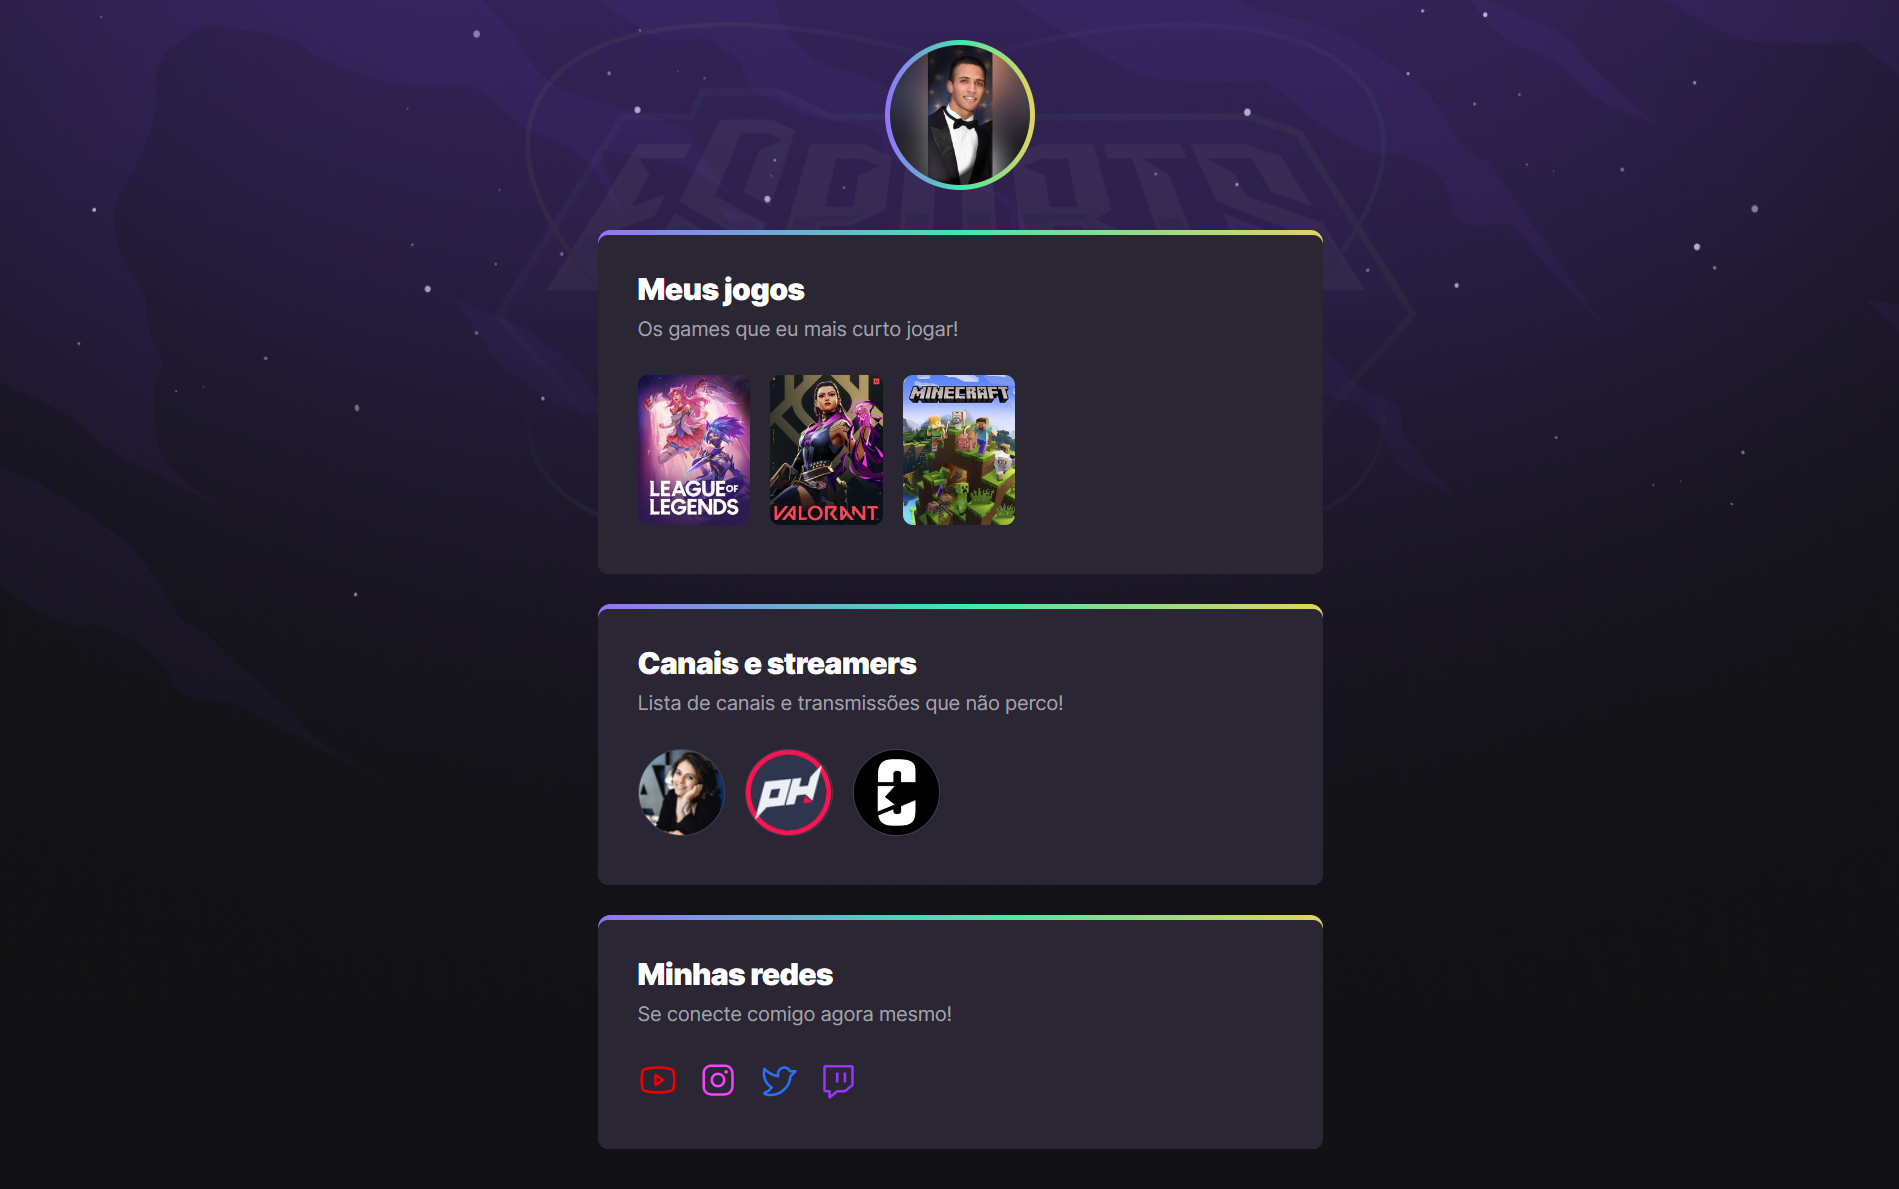
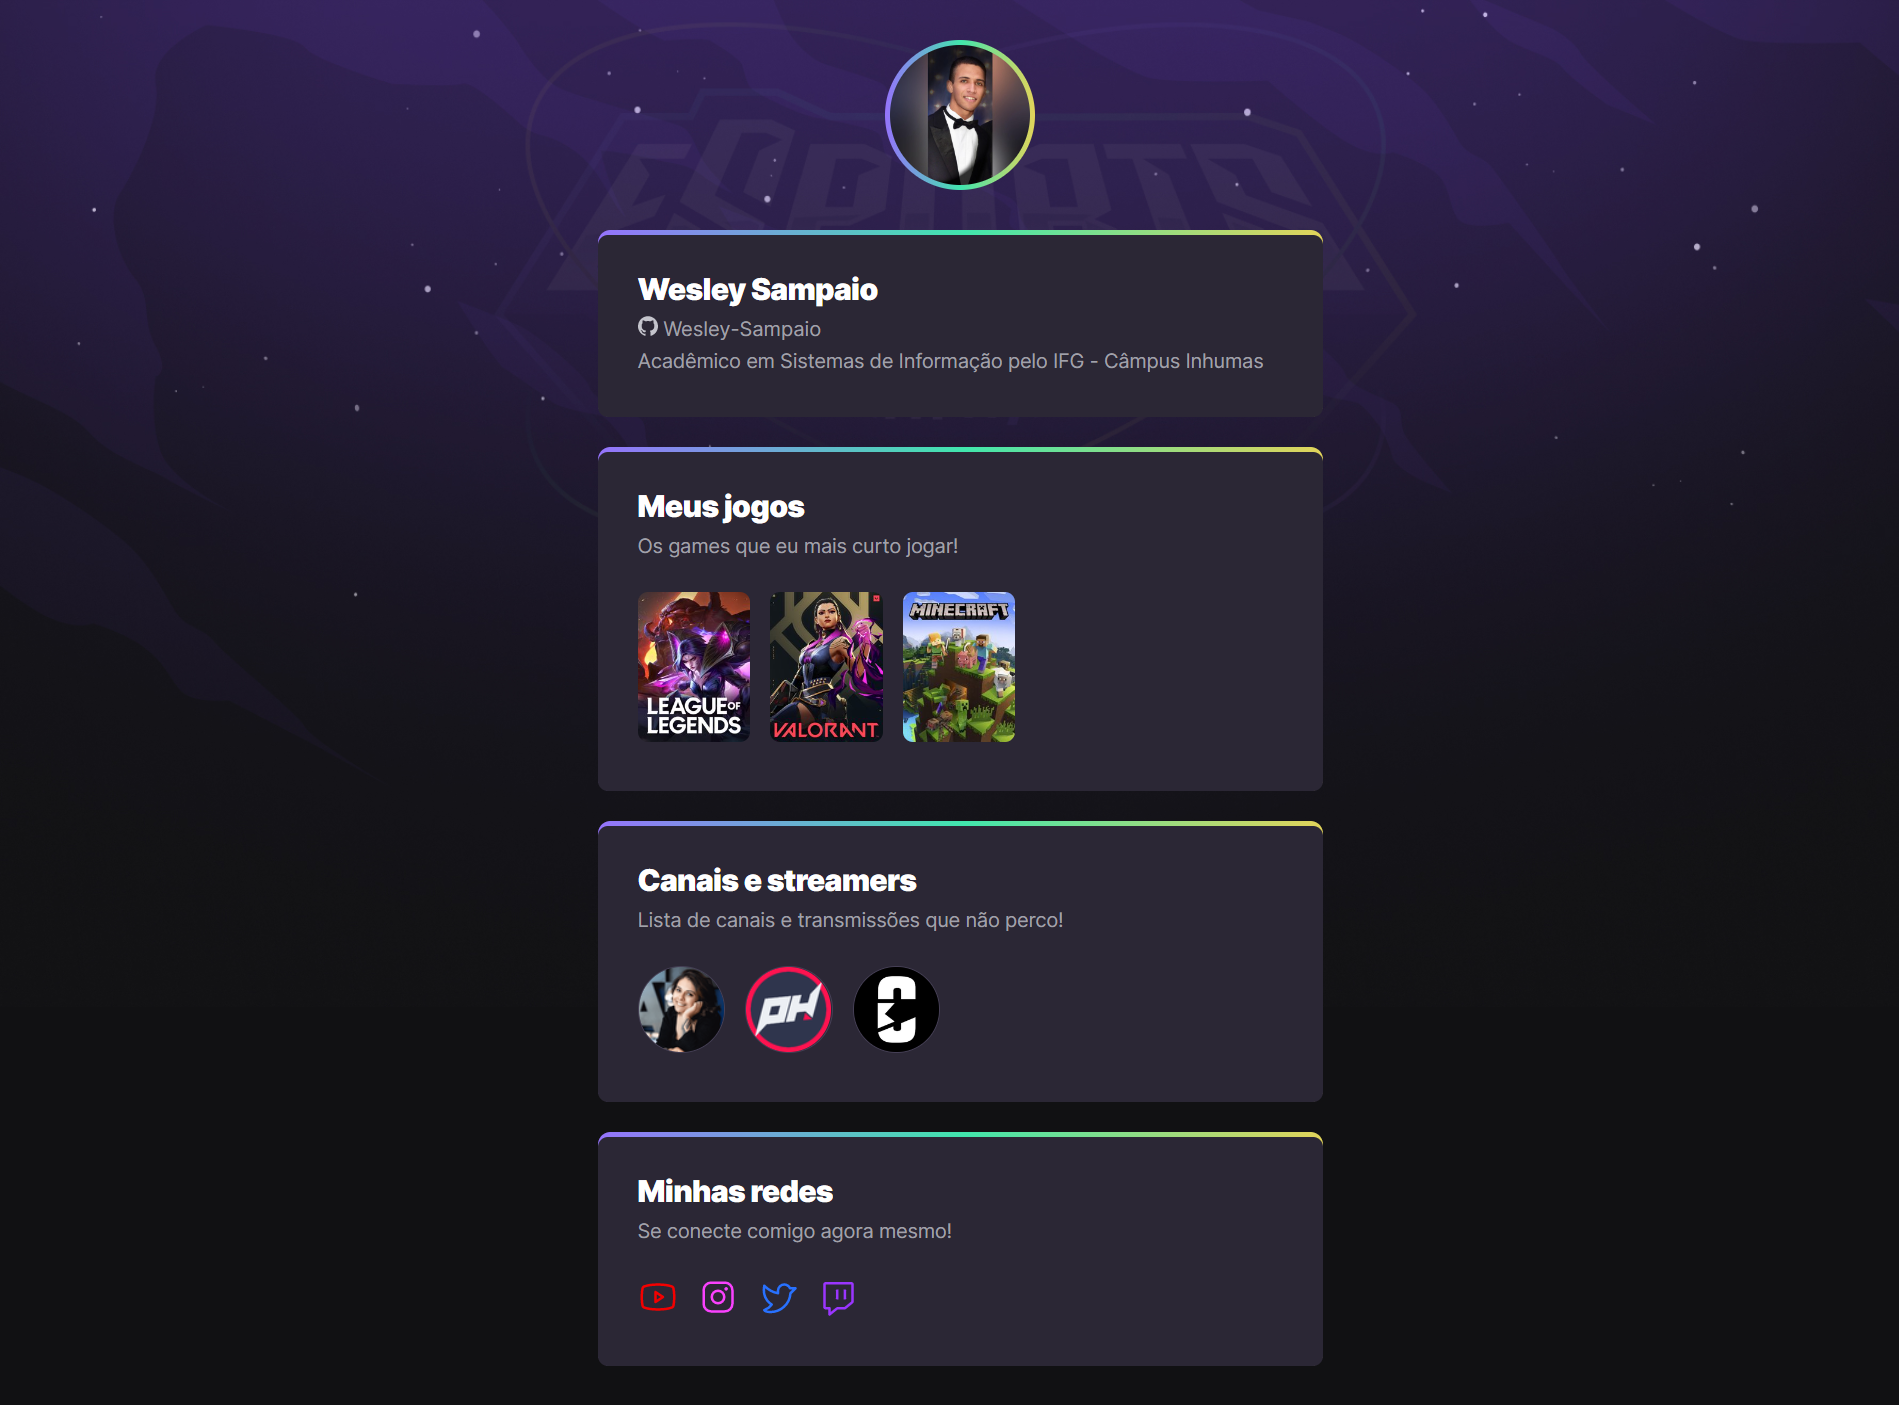
atualizando projeto

Changed region(s): [[0.3107, 0.3112, 0.7146, 0.9336], [0.3107, 0.0311, 0.7146, 0.2801], [0.3107, 0.9647, 0.6835, 0.9958]]

diff --git a/styles.css b/styles.css
@@ -4,6 +4,20 @@
   box-sizing: border-box;
 }
 
+:root {
+  --gradient: linear-gradient(
+    90deg,
+    hsla(255, 96%, 72%, 1) 0%,
+    hsla(159, 77%, 58%, 1) 50.52%,
+    hsla(54, 70%, 62%, 1) 100%
+  );
+  --text-h1: hsla(0, 0%, 100%, 1);
+  --text-p: hsl(240, 5%, 65%);
+  --color-card: hsla(257, 16%, 18%, 1);
+  --border-img: hsla(257, 15%, 29%, 1);
+  --bg-color: hsla(240, 5%, 7%, 1);
+}
+
 ul {
   list-style: none;
 }
@@ -13,7 +27,7 @@ body {
   background-position: top center;
   background-size: 100% auto;
   background-repeat: no-repeat;
-  background-color: #121214;
+  background-color: var(--bg-color);
 }
 
 body * {
@@ -29,12 +43,7 @@ header {
 header div {
   width: 120px;
   margin: auto;
-  background-image: linear-gradient(
-    90deg,
-    #9572fc 0%,
-    #43e7ad 50.52%,
-    #e2d45c 100%
-  );
+  background-image: var(--gradient);
 
   border-radius: 50%;
 
@@ -64,21 +73,21 @@ main {
 
 section {
   color: white;
-  background-image: linear-gradient(
-    90deg,
-    #9572fc 0%,
-    #43e7ad 50.52%,
-    #e2d45c 100%
-  );
+  background-image: var(--gradient);
   padding-top: 4px;
   border-radius: 10px;
 }
 
 section div {
-  background-color: #2a2634;
+  background-color: var(--color-card);
   padding: 32px;
   padding-top: 24px;
   border-radius: 8px;
+}
+
+section a {
+  color: var(--text-p);
+  text-decoration: none;
 }
 
 section h2 {
@@ -87,7 +96,7 @@ section h2 {
 
 section p {
   letter-spacing: -0.18px;
-  color: #a1a1aa;
+  color: var(--text-p);
 }
 
 section ul {
@@ -114,7 +123,7 @@ section ul li:hover {
 .channel-list img {
   border-radius: 50%;
   width: 70px;
-  border: 1px solid #443e54;
+  border: 1px solid var(--border-img);
 }
 
 /* animation */

diff --git a/index.html b/index.html
@@ -32,6 +32,19 @@
     </header>
 
     <main>
+      <section>
+        <div>
+          <h2 id="userName">Usuário</h2>
+
+          <a id="userProfile" href="https://github.com/" target="_blank">
+            <img src="assets/Icons/github.svg" alt="ícone github" />
+
+            <span id="userLogin">GitHub Profile</span></a
+          >
+          <p id="userBio">Bio</p>
+        </div>
+      </section>
+
       <!-- Meus jogos -->
       <section>
         <div>

diff --git a/main.js b/main.js
@@ -23,7 +23,10 @@ function getGitHubProfileInfo() {
   fetch(url)
     .then((response) => response.json())
     .then((data) => {
+      (userName.textContent = data.name), (userBio.textContent = data.bio);
       userImage.src = data.avatar_url;
+      userProfile.href = data.html_url;
+      userLogin.textContent = data.login;
     });
 }
 

diff --git a/README.md b/README.md
@@ -1,17 +1,11 @@
 <h1 align="center">
-  Crachá Virtual DoWhile
+  Game Hub
 </h1>
 
 <p align="center">
   <a href="#-tecnologias">Tecnologias</a>&nbsp;&nbsp;&nbsp;|&nbsp;&nbsp;&nbsp;
   <a href="#-projeto">Projeto</a>&nbsp;&nbsp;&nbsp;|&nbsp;&nbsp;&nbsp;
-  <a href="#-layout">Layout</a>&nbsp;&nbsp;&nbsp;|&nbsp;&nbsp;&nbsp;
-  <a href="#memo-licença">Licença</a>
-</p>
-
-<p align="center">
- <img src="https://img.shields.io/static/v1?label=PRs&message=welcome&color=49AA26&labelColor=000000" alt="PRs welcome!" />
-  <img alt="License" src="https://img.shields.io/static/v1?label=license&message=MIT&color=49AA26&labelColor=000000">
+  <a href="#-layout">Layout</a>
 </p>
 
 <br>
@@ -20,20 +14,18 @@
   <img src=".github/screen.png" width="100%" alt=""/>
 </p>
 
-## 🚀 Tecnologias
+## :memo: Descrição
 
-Esse projeto foi desenvolvido com as seguintes tecnologias:
-
-- HTML
-- CSS
-- JavaScript
+## :wrench: Tecnologias utilizadas
+* [HTML]
+* [CSS]
+* [JavaScript]
 
 ## 💻 Projeto
 
 ...
 
 ## 🔖 Layout
-
 Você pode visualizar o layout do projeto através [desse link](<https://www.figma.com/community/file/1152743024964543316?fuid=1024368472305058299>). É necessário ter conta no [Figma](https://figma.com) para acessá-lo.
 
 ---
